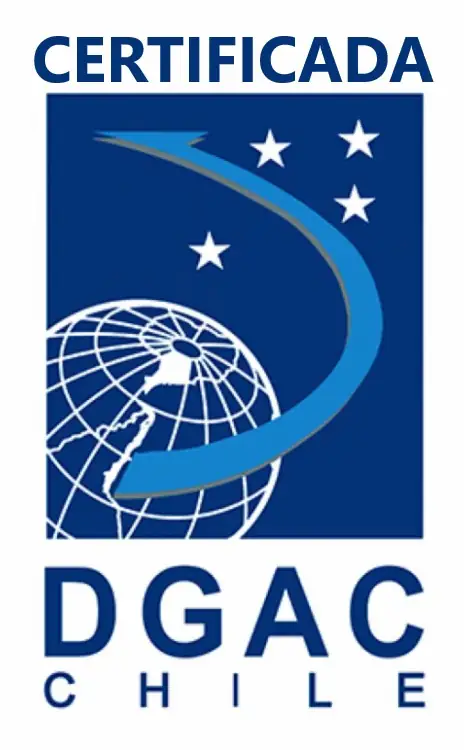
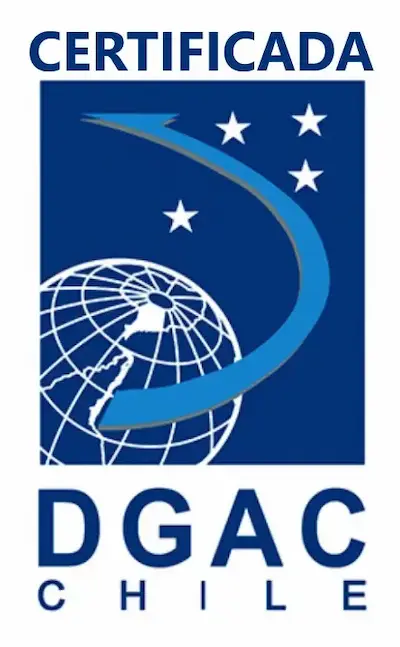
se modifican los tamaños y formatos imagenes

diff --git a/Trone-main/trone-web/src/pages/Home.jsx b/Trone-main/trone-web/src/pages/Home.jsx
@@ -483,9 +483,13 @@ const Home = () => {
             {/* Logo DGAC */}
             <div className="flex justify-center md:justify-end items-center md:pr-10 xl:pr-32 border-b md:border-b-0 md:border-r border-gray-100 pb-8 md:pb-0">
               <a href="https://www.dgac.gob.cl/" target="_blank" rel="noopener noreferrer" className="block hover:scale-105 transition-transform duration-300 drop-shadow-lg">
-                <img src={ASSETS.logos.dgac} alt="Certificación DGAC" loading="lazy" className="h-44 md:h-52 lg:h-[17rem] w-auto object-contain" />
+                <img src={ASSETS.logos.dgac} 
+                    alt="Certificación DGAC" 
+                    loading="lazy" 
+                    className="h-44 md:h-52 lg:h-[17rem] w-auto object-contain" />
               </a>
             </div>
+            
 
             {/* Logos Alianzas */}
             <div className="flex justify-center md:justify-start items-center md:pl-10 xl:pl-32 pt-8 md:pt-0">
